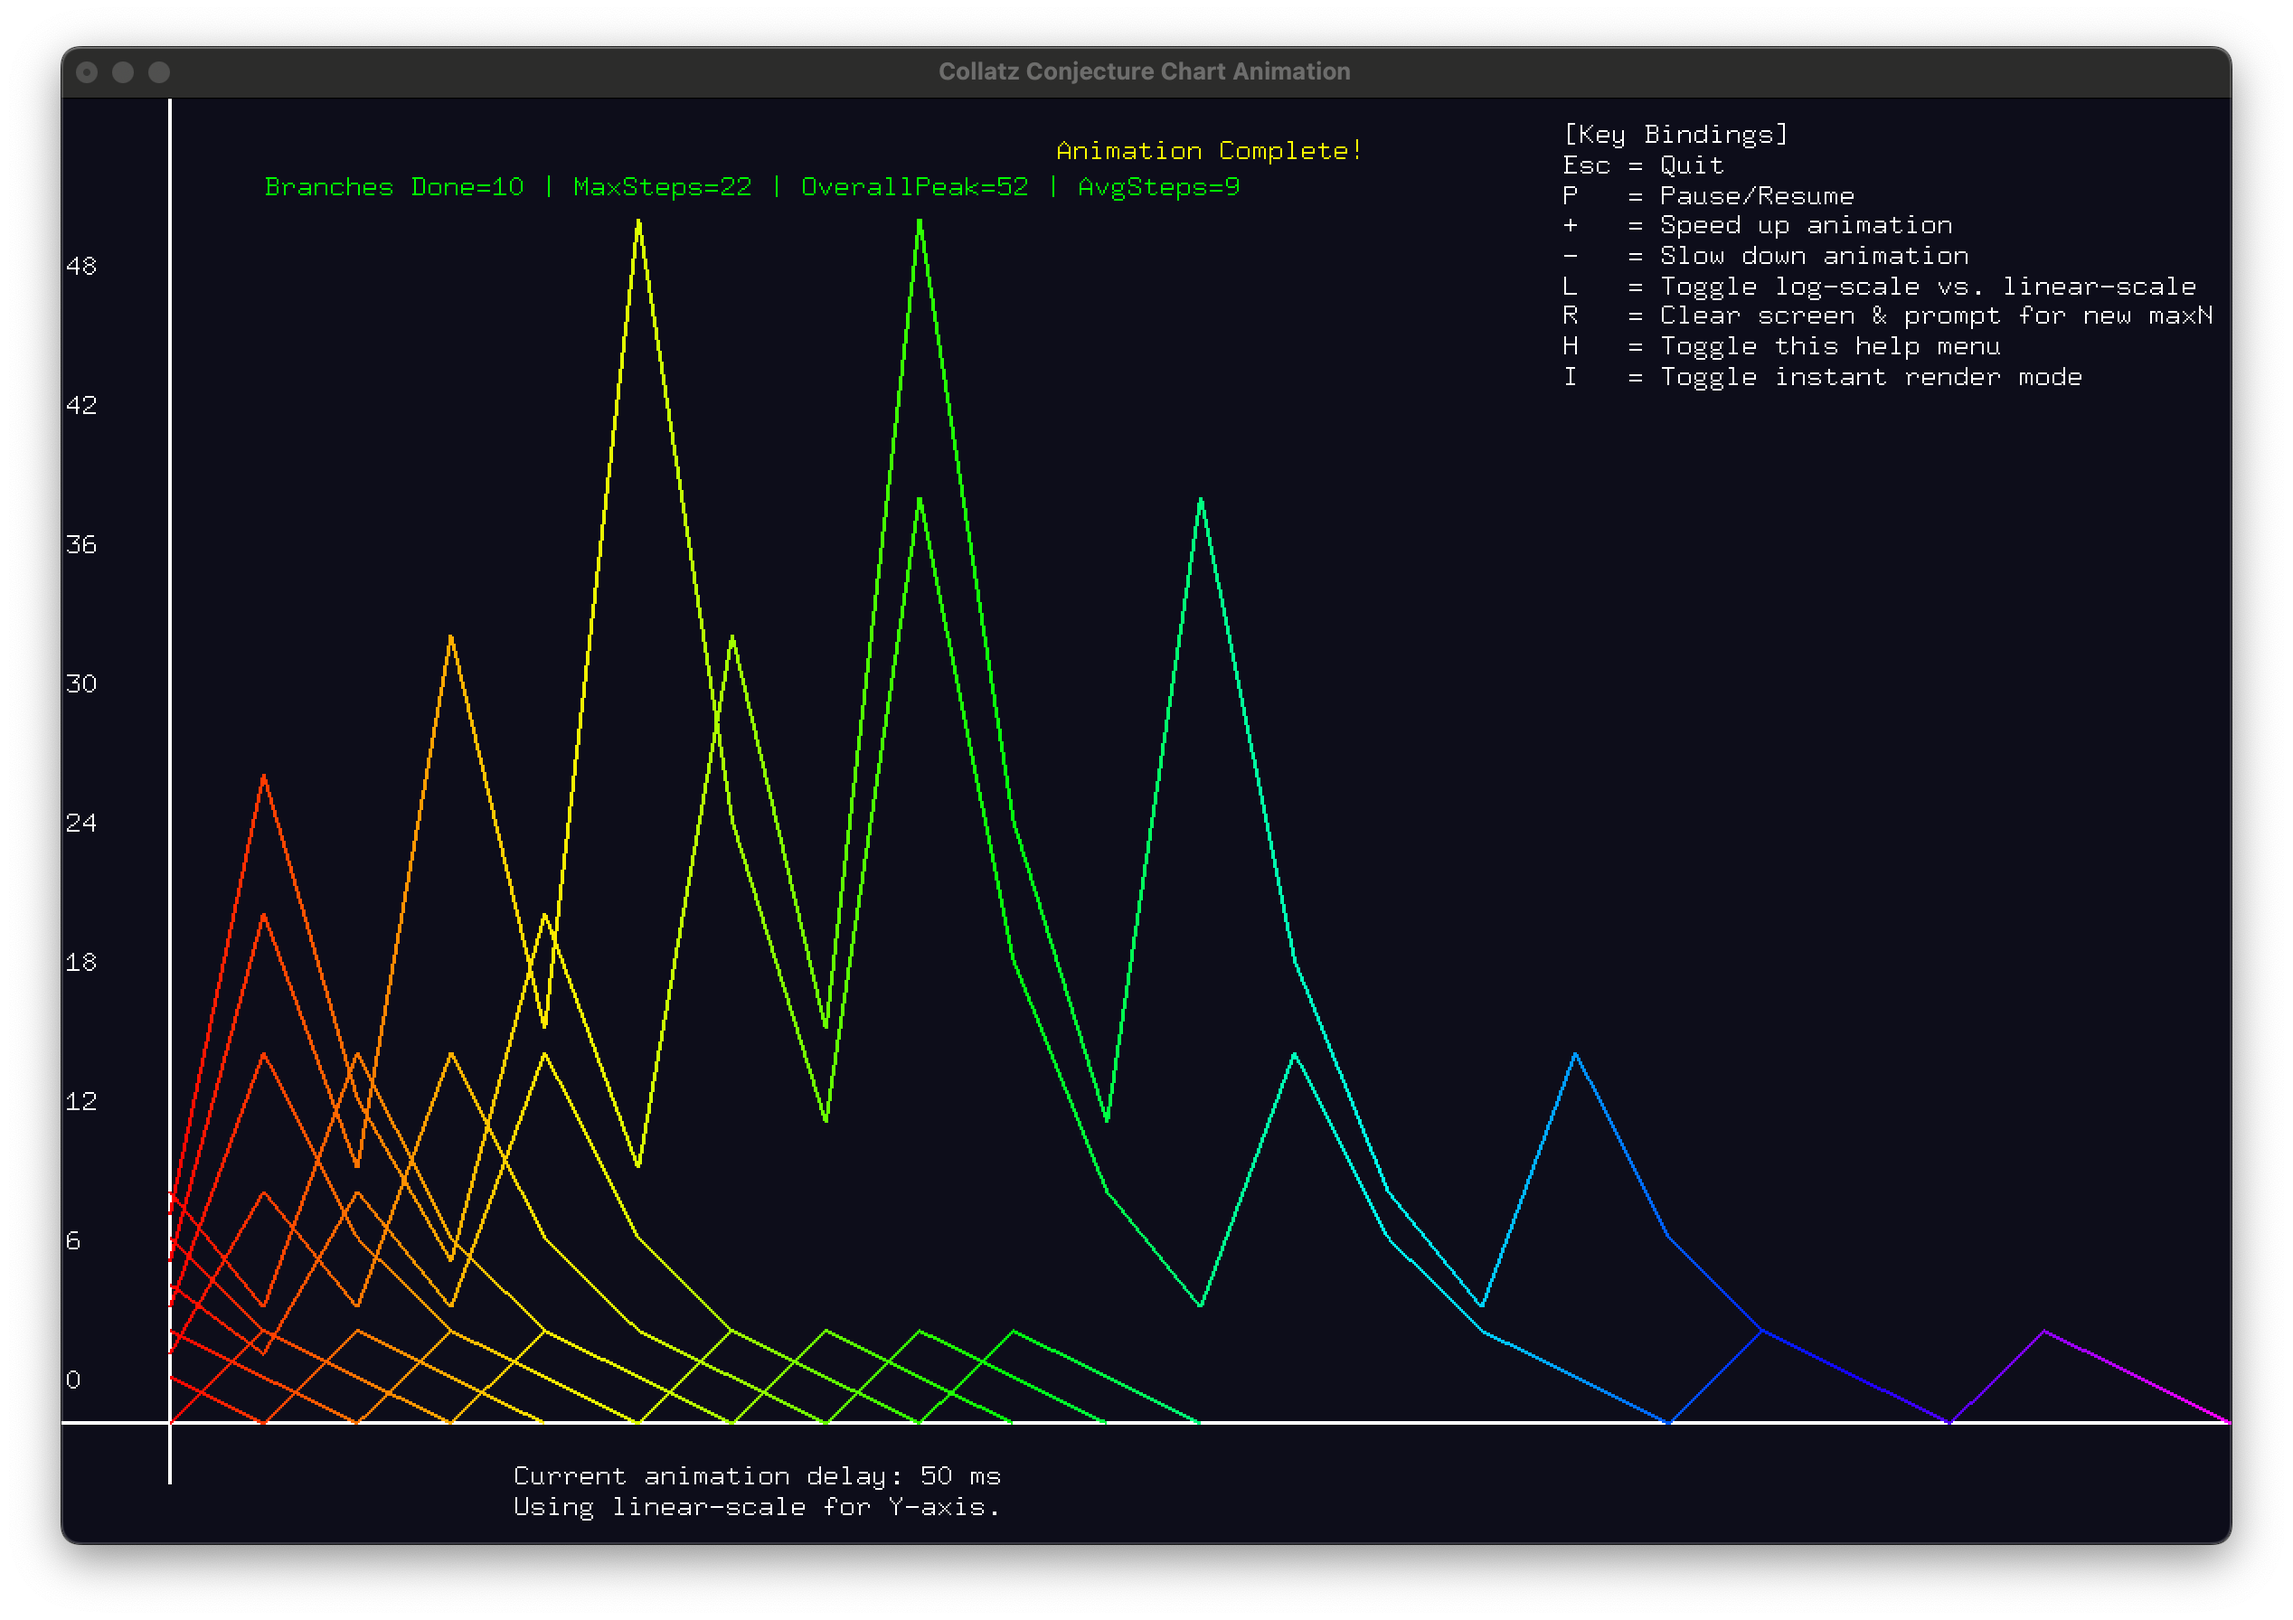
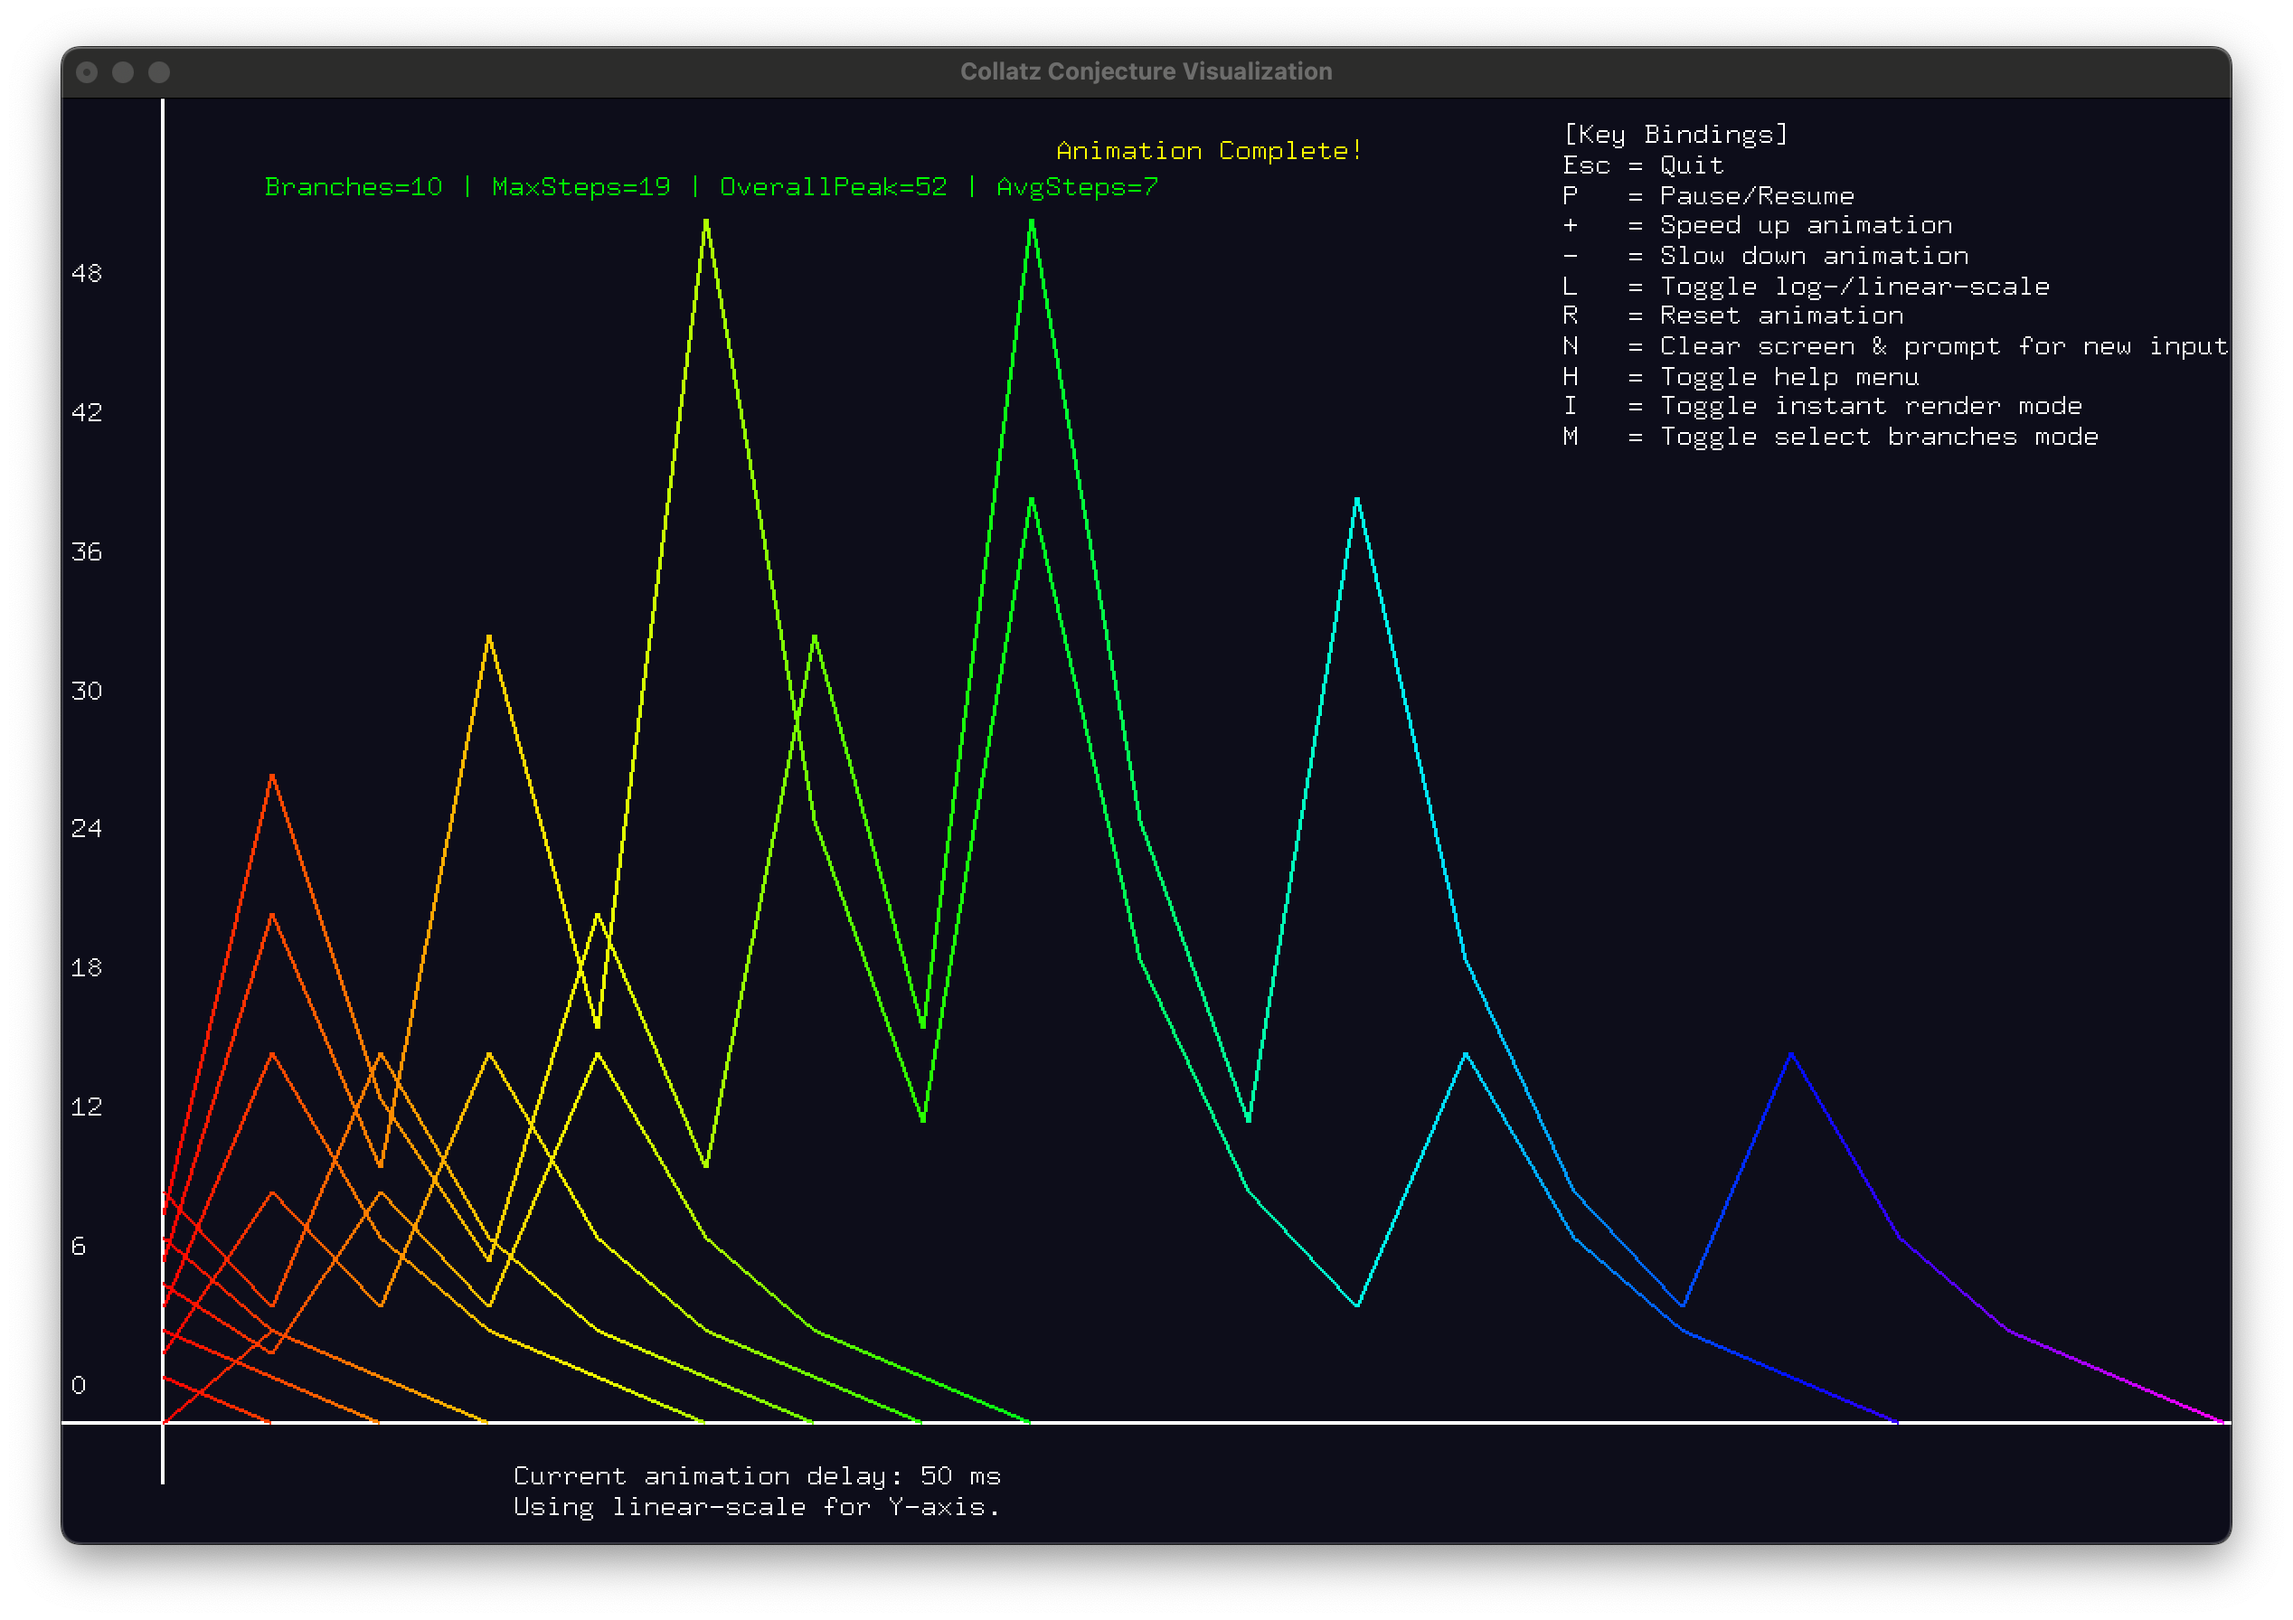
README Change

diff --git a/collatz-visualization.cpp b/collatz-visualization.cpp
@@ -697,7 +697,7 @@ int main(int argc, char** argv) {
     glutInit(&argc, argv);
     glutInitDisplayMode(GLUT_DOUBLE | GLUT_RGB);
     glutInitWindowSize(WINDOW_WIDTH, WINDOW_HEIGHT);
-    glutCreateWindow("Collatz Conjecture Chart Animation");
+    glutCreateWindow("Collatz Conjecture Visualization");
 
     initOpenGL();
     glutDisplayFunc(display);

diff --git a/README.md b/README.md
@@ -1,47 +1,61 @@
 # Collatz Conjecture Visualization
 
-[![Contributors][contributors-shield]][contributors-url]
-[![Forks][forks-shield]][forks-url]
-[![Stargazers][stars-shield]][stars-url]
-[![Issues][issues-shield]][issues-url]
-[![project_license][license-shield]][license-url]
+[![Contributors][contributors-shield]][contributors-url]  
+[![Forks][forks-shield]][forks-url]  
+[![Stargazers][stars-shield]][stars-url]  
+[![Issues][issues-shield]][issues-url]  
+[![project_license][license-shield]][license-url]  
 [![LinkedIn][linkedin-shield]][linkedin-url]
 
-<br />
-<div align="center">
-  <h3 align="center">Collatz Conjecture Visualization</h3>
+<br />  
+<div align="center">  
+  <h3 align="center">Collatz Conjecture Visualization</h3>  
 
-  <p align="center">
-    A visualization tool for exploring the Collatz Conjecture using OpenGL and C++.
-    <br />
-    <a href="https://github.com/CameronScarpati/collatz-conjecture-visualized"><strong>Explore the docs »</strong></a>
-    <br />
-    <br />
-    <a href="https://github.com/CameronScarpati/collatz-conjecture-visualized">View Demo</a>
-    &middot;
-    <a href="https://github.com/CameronScarpati/collatz-conjecture-visualized/issues/new?labels=bug&template=bug-report---.md">Report Bug</a>
-    &middot;
-    <a href="https://github.com/CameronScarpati/collatz-conjecture-visualized/issues/new?labels=enhancement&template=feature-request---.md">Request Feature</a>
-  </p>
-</div>
+  <p align="center">  
+    A visualization tool for exploring the Collatz Conjecture using OpenGL and C++.  
+    <br />  
+    <a href="https://github.com/CameronScarpati/collatz-conjecture-visualized"><strong>Explore the docs »</strong></a>  
+    <br />  
+    <br />  
+    <a href="https://github.com/CameronScarpati/collatz-conjecture-visualized">View Demo</a>  
+    &middot;  
+    <a href="https://github.com/CameronScarpati/collatz-conjecture-visualized/issues/new?labels=bug&template=bug-report---.md">Report Bug</a>  
+    &middot;  
+    <a href="https://github.com/CameronScarpati/collatz-conjecture-visualized/issues/new?labels=enhancement&template=feature-request---.md">Request Feature</a>  
+  </p>  
+</div>  
 
-![Collatz Conjecture - Linear Scale (10 Branches)](images/Collatz-Linear-Scale-10-Branches.png)
+### Visualizations
+
+![Collatz Conjecture - Linear Scale (10 Branches)](images/Collatz-Linear-Scale-10-Branches.png)  
 This visualization shows the Collatz sequences for 10 different starting numbers using a linear scale.
 
-![Collatz Conjecture - Linear Scale (1000 Branches)](images/Collatz-Linear-Scale-1000-Branches.png)
-This visualization extends the linear scale view to 1000 different starting numbers, revealing more structural patterns.
+![Collatz Conjecture - Linear Scale (100 Branches)](images/Collatz-Linear-Scale-100-Branches.png)  
+This visualization extends the linear scale view to 100 different starting numbers, revealing more structural patterns.
 
-![Collatz Conjecture - Log Scale (10 Branches)](images/Collatz-Log-Scale-10-Branches.png)
+![Collatz Conjecture - Log Scale (10 Branches)](images/Collatz-Log-Scale-10-Branches.png)  
 This log-scale visualization maps the trajectories of 10 numbers under the Collatz sequence, emphasizing relative growth differences.
 
-![Collatz Conjecture - Log Scale (1000 Branches)](images/Collatz-Log-Scale-1000-Branches.png)
-With 1000 branches in a log scale, this visualization highlights how sequences distribute over a broader range.
+![Collatz Conjecture - Log Scale (100 Branches)](images/Collatz-Log-Scale-100-Branches.png)  
+With 100 branches in a log scale, this visualization highlights how sequences distribute over a broader range.
 
 ![Collatz Change - MaxN](images/Collatz-Change-MaxN.png)
-This image likely represents a visualization where the maximum N value (number of iterations or numbers considered) is changed.
+This image represents a visualization where the maximum N value (number of iterations or numbers considered) is changed.
 
 ![Collatz Change - MaxN Error](images/Collatz-Change-MaxN-Error.png)
 This image may depict an error or anomaly encountered when modifying the maximum N value.
+
+![Collatz Conjecture - Linear Scale (9,97,871,6171 Branch)](images/Collatz-Linear-Scale-Largest-Stopping.png)  
+This visualization highlights the Collatz sequences for four specific starting numbers: **9, 97, 871, and 6171**. These numbers are well-known for having long trajectories before reaching 1. The linear scale allows for a direct comparison of the stopping times and peak values of each sequence.
+
+![Collatz Conjecture - Log Scale (9,97,871,6171 Branch)](images/Collatz-Log-Scale-Largest-Stopping.png)  
+This version of the visualization maps the same four branches (**9, 97, 871, and 6171**) but uses a **logarithmic scale** for the y-axis. This helps to better visualize the relative growth rates and differences in step progression, particularly for numbers that exhibit large fluctuations in value.
+
+![Collatz Change - Branches](images/Collatz-Change-Branches.png)  
+This image demonstrates the **new selective branch selection mode**, where users can manually specify which starting values they want to visualize. Instead of computing all numbers up to a maximum value, this mode allows focused exploration of specific Collatz trajectories.
+
+![Collatz Change - Branches Error](images/Collatz-Change-Branches-Error.png)  
+This screenshot showcases an error handling scenario in selective branch input mode. It likely results from entering an invalid branch number (e.g., non-numeric input, negative values, or exceeding the allowed range). The error message provides feedback, helping users enter valid selections.
 
 ### Built With
 
@@ -50,7 +64,7 @@ This image may depict an error or anomaly encountered when modifying the maximum
 * [![GLUT](https://img.shields.io/badge/GLUT-FCC624?style=for-the-badge&logo=opengl&logoColor=black)](https://www.opengl.org/resources/libraries/glut/)
 * [![CMake](https://img.shields.io/badge/CMake-064F8C?style=for-the-badge&logo=cmake&logoColor=white)](https://cmake.org/)
 
-<p align="right">(<a href="#readme-top">back to top</a>)</p>
+<p align="right">(<a href="#readme-top">back to top</a>)</p>  
 
 ## Getting Started
 
@@ -61,32 +75,32 @@ To get a local copy up and running, follow these steps.
 Ensure you have the following dependencies installed:
 
 * OpenGL & GLUT
-  ```sh
-  sudo apt install freeglut3-dev   # Linux
-  brew install freeglut            # macOS
-  ```
+  ```sh  
+  sudo apt install freeglut3-dev   # Linux  
+  brew install freeglut            # macOS  
+  ```  
 * CMake (optional for build automation)
-  ```sh
-  sudo apt install cmake           # Linux
-  brew install cmake               # macOS
-  ```
+  ```sh  
+  sudo apt install cmake           # Linux  
+  brew install cmake               # macOS  
+  ```  
 
 ### Installation
 
 1. Clone the repo
-   ```sh
-   git clone https://github.com/CameronScarpati/collatz-conjecture-visualized.git
-   ```
+   ```sh  
+   git clone https://github.com/CameronScarpati/collatz-conjecture-visualized.git  
+   ```  
 2. Build the project
-   ```sh
-   g++ -o collatz collatz-conjecture.cpp collatz-visualization.cpp -framework OpenGL -framework GLUT -std=c++17
-   ```
+   ```sh  
+   g++ -o Collatz-Conjecture-Visualization collatz-visualization.cpp collatz_modes.cpp -framework OpenGL -framework GLUT -std=c++17 -DGL_SILENCE_DEPRECATION
+   ```  
 3. Run the executable
-   ```sh
-   ./collatz
-   ```
+   ```sh  
+   ./Collatz-Conjecture-Visualization  
+   ```  
 
-<p align="right">(<a href="#readme-top">back to top</a>)</p>
+<p align="right">(<a href="#readme-top">back to top</a>)</p>  
 
 ## Usage
 
@@ -98,22 +112,13 @@ Keybindings:
 - **P**: Pause/Resume
 - **+ / -**: Speed up / Slow down animation
 - **L**: Toggle log-scale vs. linear-scale
-- **R**: Clear screen & enter new maxN
+- **R**: Reset animation
+- **N**: Clear screen & prompt for new input
 - **H**: Toggle help menu
 - **I**: Toggle instant render mode
+- **M**: Toggle selective branch selection mode
 
-_For more details, refer to the [Documentation](https://example.com)_
-
-<p align="right">(<a href="#readme-top">back to top</a>)</p>
-
-## Roadmap
-
-- [ ] Add GUI controls for single/chosen collatz graph visualization.
-- [ ] Allow for larger numbers to be calculated (+1000)
-
-See the [open issues](https://github.com/CameronScarpati/collatz-conjecture-visualized/issues) for a full list of proposed features and known issues.
-
-<p align="right">(<a href="#readme-top">back to top</a>)</p>
+<p align="right">(<a href="#readme-top">back to top</a>)</p>  
 
 ## Contributing
 
@@ -125,19 +130,19 @@ Contributions are welcome! If you have suggestions to improve the project, fork 
 4. Push to the Branch (`git push origin feature/AmazingFeature`)
 5. Open a Pull Request
 
-<p align="right">(<a href="#readme-top">back to top</a>)</p>
+<p align="right">(<a href="#readme-top">back to top</a>)</p>  
 
 ### Top contributors:
 
-<a href="https://github.com/CameronScarpati/collatz-conjecture-visualized/graphs/contributors">
-  <img src="https://contrib.rocks/image?repo=CameronScarpati/collatz-conjecture-visualized" alt="contrib.rocks image" />
-</a>
+<a href="https://github.com/CameronScarpati/collatz-conjecture-visualized/graphs/contributors">  
+  <img src="https://contrib.rocks/image?repo=CameronScarpati/collatz-conjecture-visualized" alt="contrib.rocks image" />  
+</a>  
 
 ## License
 
 Distributed under the MIT License. See [`LICENSE.txt`](LICENSE.txt) for more information.
 
-<p align="right">(<a href="#readme-top">back to top</a>)</p>
+<p align="right">(<a href="#readme-top">back to top</a>)</p>  
 
 ## Contact
 
@@ -145,7 +150,7 @@ Cameron J. Scarpati - [LinkedIn](https://linkedin.com/in/cameron-scarpati) - cam
 
 Project Link: [https://github.com/CameronScarpati/collatz-conjecture-visualized](https://github.com/CameronScarpati/collatz-conjecture-visualized)
 
-<p align="right">(<a href="#readme-top">back to top</a>)</p>
+<p align="right">(<a href="#readme-top">back to top</a>)</p>  
 
 ## Acknowledgments
 
@@ -154,17 +159,3 @@ Project Link: [https://github.com/CameronScarpati/collatz-conjecture-visualized]
 * FreeGLUT for cross-platform support
 
 <p align="right">(<a href="#readme-top">back to top</a>)</p>
-
-<!-- MARKDOWN LINKS & IMAGES -->
-[contributors-shield]: https://img.shields.io/github/contributors/CameronScarpati/collatz-conjecture-visualized.svg?style=for-the-badge
-[contributors-url]: https://github.com/CameronScarpati/collatz-conjecture-visualized/graphs/contributors
-[forks-shield]: https://img.shields.io/github/forks/CameronScarpati/collatz-conjecture-visualized.svg?style=for-the-badge
-[forks-url]: https://github.com/CameronScarpati/collatz-conjecture-visualized/network/members
-[stars-shield]: https://img.shields.io/github/stars/CameronScarpati/collatz-conjecture-visualized.svg?style=for-the-badge
-[stars-url]: https://github.com/CameronScarpati/collatz-conjecture-visualized/stargazers
-[issues-shield]: https://img.shields.io/github/issues/CameronScarpati/collatz-conjecture-visualized.svg?style=for-the-badge
-[issues-url]: https://github.com/CameronScarpati/collatz-conjecture-visualized/issues
-[license-shield]: https://img.shields.io/github/license/CameronScarpati/collatz-conjecture-visualized.svg?style=for-the-badge
-[license-url]: https://github.com/CameronScarpati/collatz-conjecture-visualized/blob/master/LICENSE.txt
-[linkedin-shield]: https://img.shields.io/badge/-LinkedIn-black.svg?style=for-the-badge&logo=linkedin&colorB=555
-[linkedin-url]: https://linkedin.com/in/cameron-scarpati
